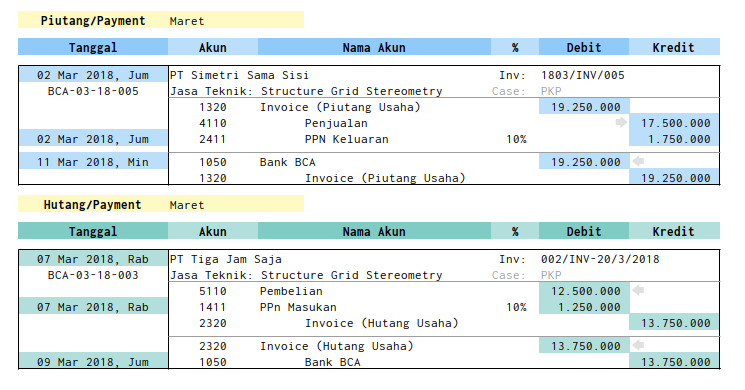
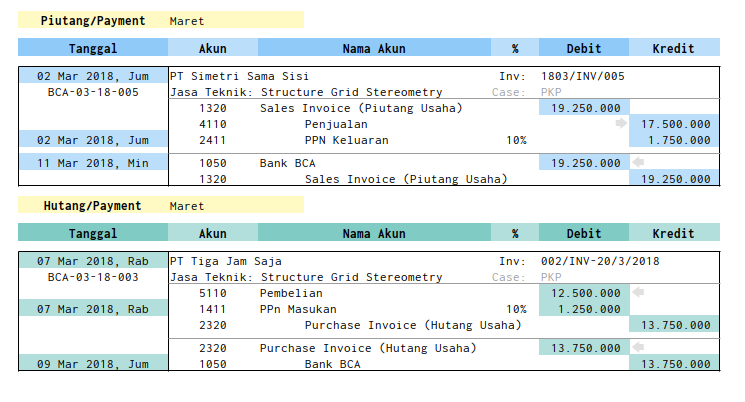
Artikel: Berkas Pajak: Change CoA Name

Changed region(s): [[0.0, 0.0308, 0.9879, 0.9538]]

diff --git a/_content/pajak/2018-03-21-berkas-pajak-pph23.md b/_content/pajak/2018-03-21-berkas-pajak-pph23.md
@@ -452,9 +452,9 @@ yang perlu kita bahas:
 
 [82-sse-pph23]:         {% postimage %}/pajak/2018/03/82-pranala-sse-pph23.png
 
-[13-case-03p]:          {% postimage %}/pajak/2018/05/13-case-03p.png
-[13-case-03h]:          {% postimage %}/pajak/2018/05/13-case-03h.png
-[13-case-04p]:          {% postimage %}/pajak/2018/05/13-case-04p.png
-[13-case-04h]:          {% postimage %}/pajak/2018/05/13-case-04h.png
-[13-case-05p]:          {% postimage %}/pajak/2018/05/13-case-05p.png
-[13-case-05h]:          {% postimage %}/pajak/2018/05/13-case-05h.png
+[13-case-03p]:          {% postimage %}/pajak/2018/05/13-case-03pi.png
+[13-case-03h]:          {% postimage %}/pajak/2018/05/13-case-03hu.png
+[13-case-04p]:          {% postimage %}/pajak/2018/05/13-case-04pi.png
+[13-case-04h]:          {% postimage %}/pajak/2018/05/13-case-04hu.png
+[13-case-05p]:          {% postimage %}/pajak/2018/05/13-case-05pi.png
+[13-case-05h]:          {% postimage %}/pajak/2018/05/13-case-05hu.png

diff --git a/_content/pajak/2022-16-11-berkas-pajak-unifikasi.md b/_content/pajak/2022-16-11-berkas-pajak-unifikasi.md
@@ -99,6 +99,15 @@ Kita akan melihat bagaimana tampilannya di situs pajak,
 lalu berikut contoh berkas keluarannya,
 yang dapat diunduh/dicetak.
 
+### Penataan Folder
+
+Seperti biasa, hajar dahulu tata nama  berkas,
+supaya ada aturan baku untuk kantor.
+
+![PPh Unifikasi: Persiapan: Tata Nama Berkas][02-folder-unifikasi]
+
+Mengenai tata nama-nya, silahkan diatur sendiri.
+
 ### Masuk e-Bupot Unifikasi
 
 > Pra Pelaporan
@@ -541,6 +550,8 @@ Kita akan berlanjut ke artikel berseri yang lain.
 [//]: <> ( -- -- -- links below -- -- -- )
 
 [01-pranala-sse]:       {% postimage %}/pajak/2022/06/01-pranala-sse-pph42.png
+[02-folder-unifikasi]:  {% postimage %}/pajak/2022/06/02-folder-unifikasi.png
+
 [04-pra-pel-e-bupot]:   {% postimage %}/pajak/2022/06/04-pra-pelaporan-e-bupot.png
 [05-pra-pel-menu]:      {% postimage %}/pajak/2022/06/05-pra-pelaporan-menu.png
 [06-pra-pel-wide]:      {% postimage %}/pajak/2022/06/06-pra-pelaporan-wide.png

diff --git a/_content/pajak/2018-02-09-berkas-pajak-bagan-akun.md b/_content/pajak/2018-02-09-berkas-pajak-bagan-akun.md
@@ -224,8 +224,8 @@ Mari kita lanjutkan ke artikel berikutnya yaitu:
 
 [11-case-07]:           {% postimage %}/pajak/2018/05/11-case-07.png
 
-[13-case-01p]:          {% postimage %}/pajak/2018/05/13-case-01p.png
-[13-case-01h]:          {% postimage %}/pajak/2018/05/13-case-01h.png
+[13-case-01p]:          {% postimage %}/pajak/2018/05/13-case-01pi.png
+[13-case-01h]:          {% postimage %}/pajak/2018/05/13-case-01hu.png
 
 
 [Teliti-2018-case]:     {% postimage %}/pajak/2018/05/Teliti-2018-contoh-kasus-transaksi.xlsx

diff --git a/_content/pajak/2018-03-15-berkas-pajak-ppn.md b/_content/pajak/2018-03-15-berkas-pajak-ppn.md
@@ -442,5 +442,5 @@ Mari kita lanjutkan ke artikel berikutnya yaitu:
 
 [82-sse-ppn]:           {% postimage %}/pajak/2018/03/82-pranala-sse-ppn.png
 
-[13-case-02p]:          {% postimage %}/pajak/2018/05/13-case-02p.png
-[13-case-02h]:          {% postimage %}/pajak/2018/05/13-case-02h.png
+[13-case-02p]:          {% postimage %}/pajak/2018/05/13-case-02pi.png
+[13-case-02h]:          {% postimage %}/pajak/2018/05/13-case-02hu.png

diff --git a/_content/pajak/2018-03-17-berkas-pajak-pph21.md b/_content/pajak/2018-03-17-berkas-pajak-pph21.md
@@ -258,7 +258,7 @@ Yang isinya adalah:
 
 ```
 1. Bambang Rudolfo:      6,000,000
-*  09.254.294.3-407.000
+*  09.254.294.3-405.000
 
 -- 2018 - 12 - Desember --
 
@@ -312,7 +312,7 @@ untuk melakukan input ke aplikasi eSPT PPh 21.
 
 ```
 1. Bambang Rudolfo:      6,000,000
-*  09.254.294.3-407.000
+*  09.254.294.3-405.000
 ```
 
 #### Tanda Terima

diff --git a/_content/pajak/2018-03-19-berkas-pajak-pph4(2).md b/_content/pajak/2018-03-19-berkas-pajak-pph4(2).md
@@ -180,7 +180,7 @@ Maka sengaja saya bikin singkat.
 
 ### Induk: SPT Masa Pajak PPh 4(2)
 
-Formulir induk bentuknya seperti inidi bawah:
+Formulir induk bentuknya seperti ini di bawah:
 
 ![Berkas PPh 4(2): Form Masa Pajak Induk][42-doc-pph4(2)-induk]
 
